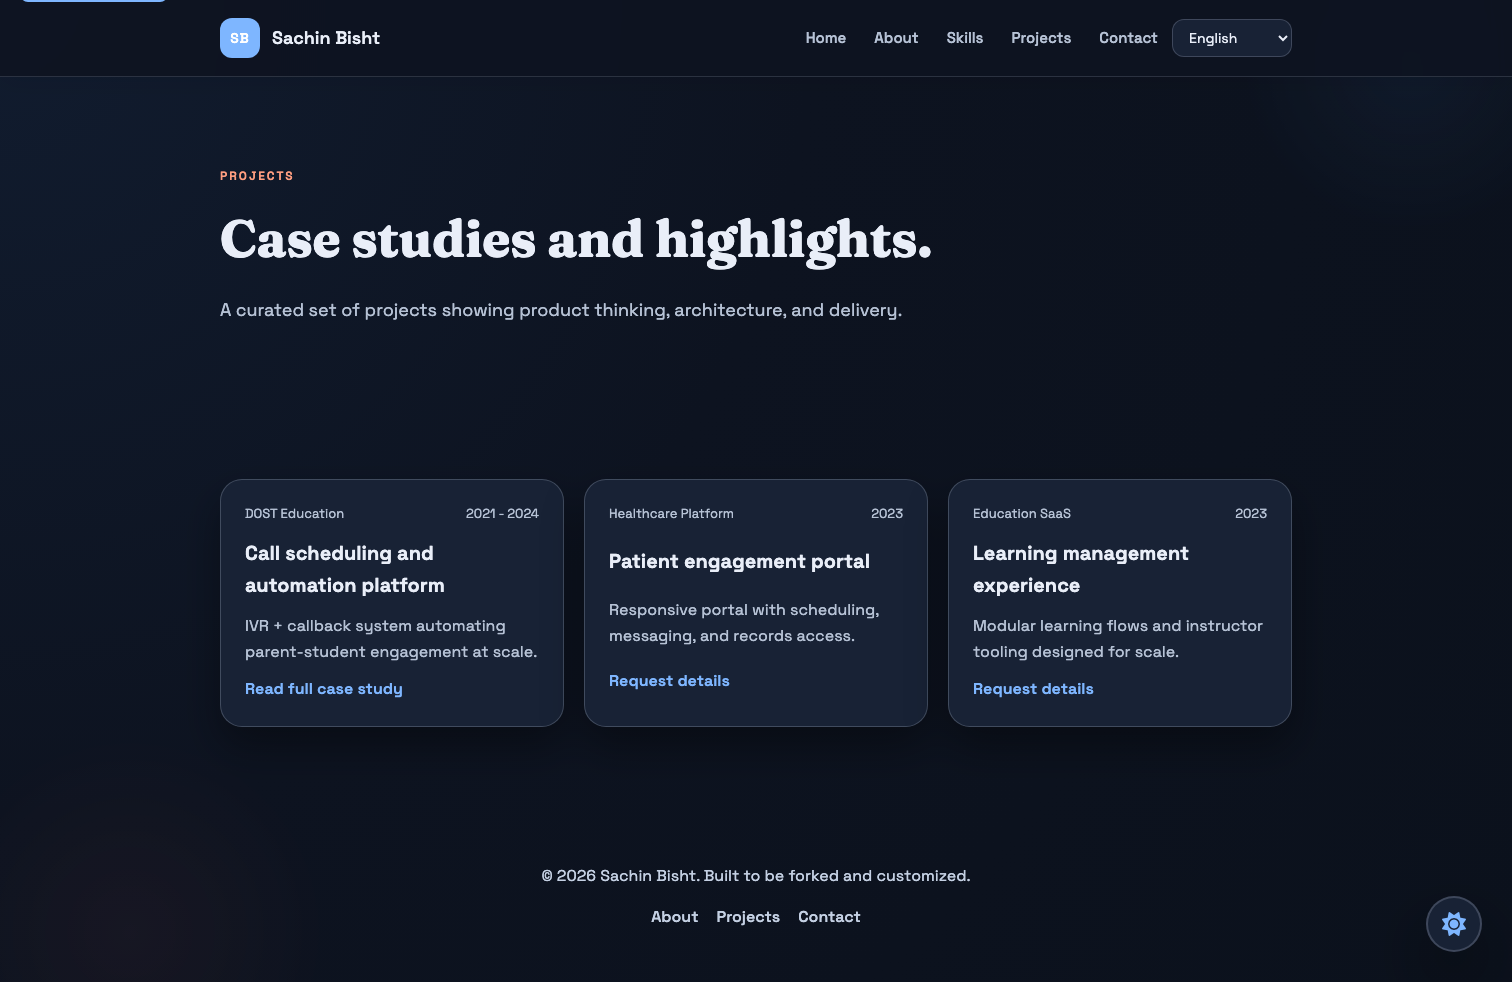
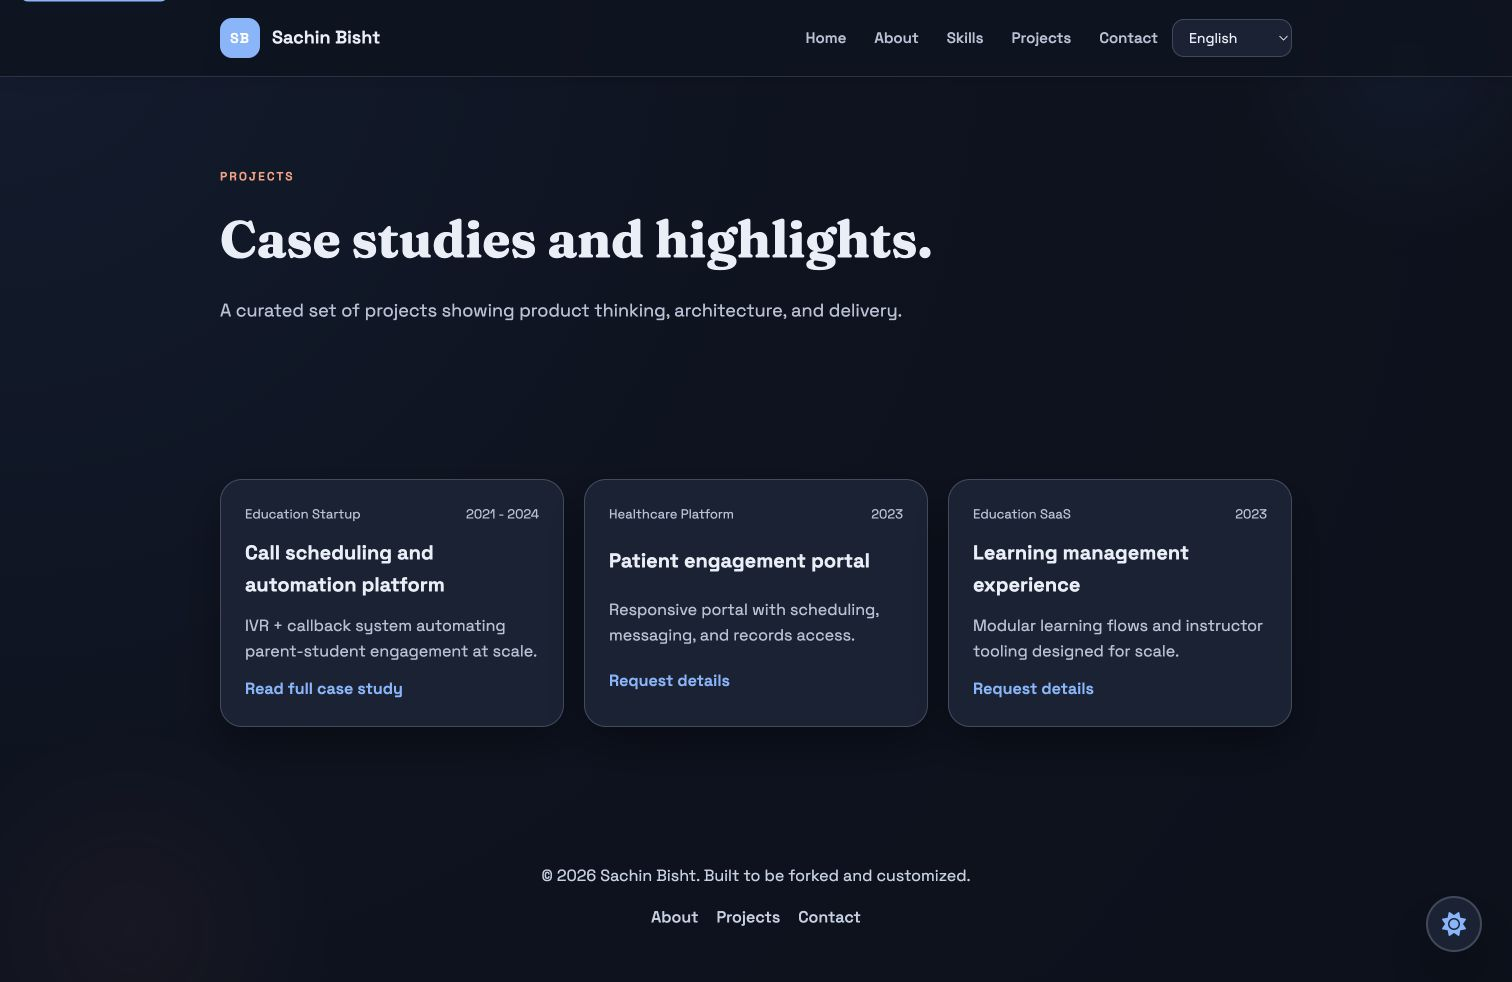
Anonymize client organization names

diff --git a/docs/screenshots/README.md b/docs/screenshots/README.md
@@ -5,13 +5,10 @@ Dark-mode screenshots generated during the UI polish pass.
 ## Desktop
 - `desktop-dark-home.png`
 - `desktop-dark-projects.png`
-- `desktop-dark-case-study.png`
 - `desktop-dark-contact.png`
 
 ## Mobile
 - `mobile-dark-home.png`
-- `mobile-dark-projects.png`
-- `mobile-dark-case-study.png`
 - `mobile-dark-contact.png`
 
 ## Multilingual Mobile Checks
